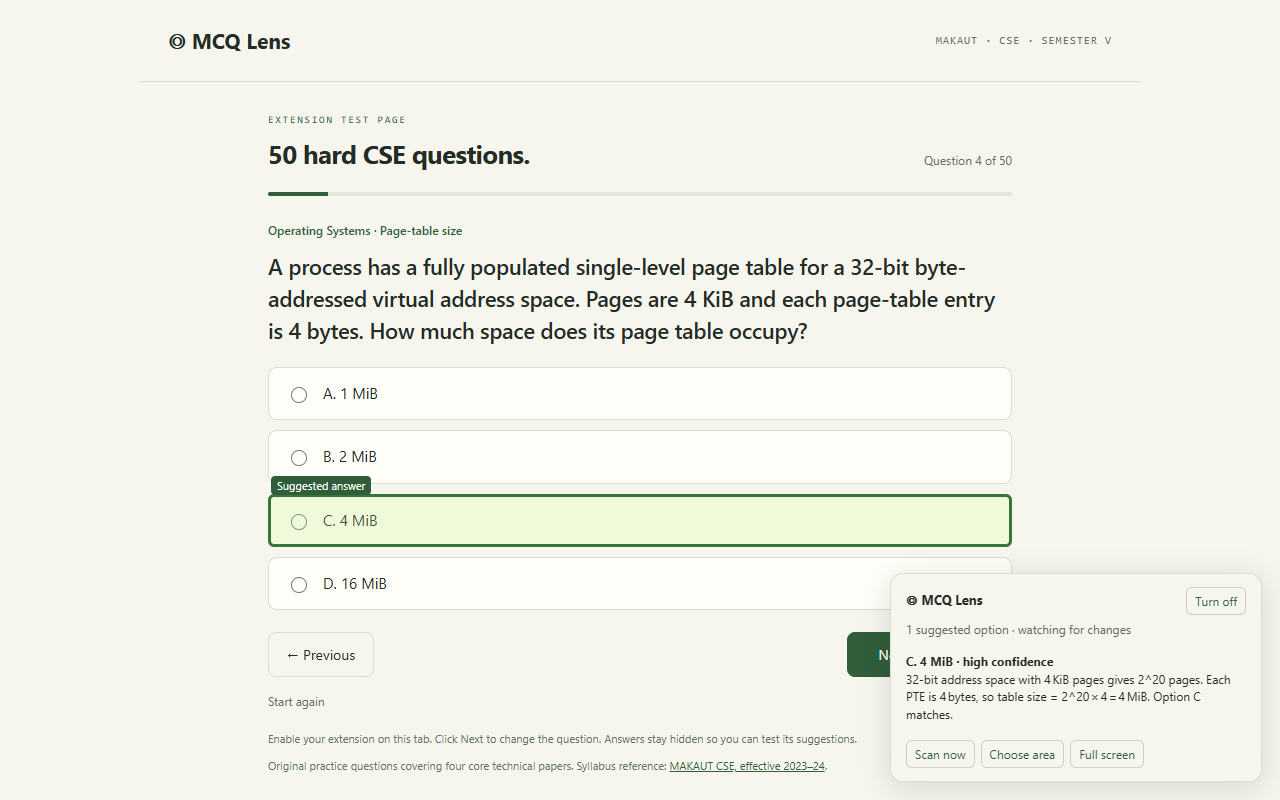
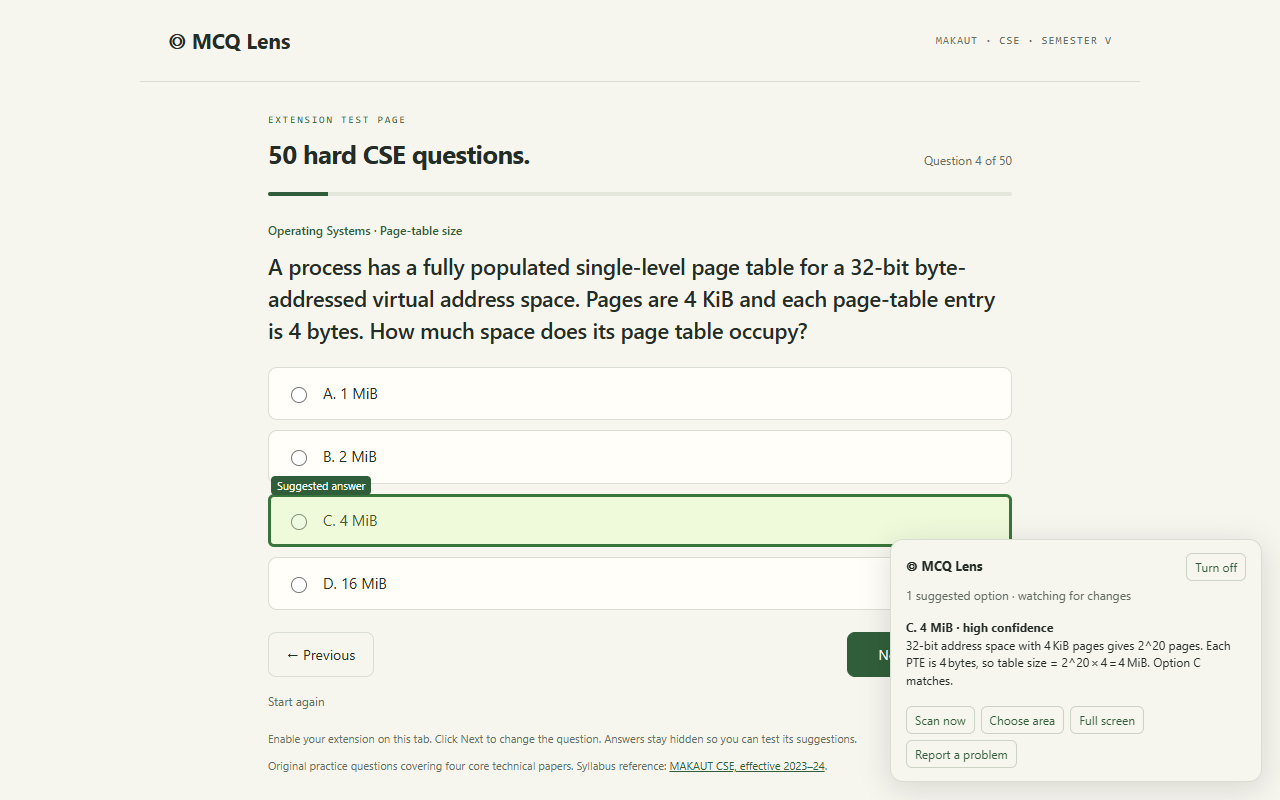
Update Edge listing text and screenshots for 1.3.0

Changed region(s): [[0.6875, 0.6562, 0.9688, 0.9062], [0.7188, 0.9375, 0.875, 0.9688], [0.9375, 0.6875, 0.9688, 0.7188]]

diff --git a/store/LISTING.md b/store/LISTING.md
@@ -17,12 +17,12 @@ Visibility: Public. Markets: all.
 **Permission justification**
 - activeTab: captures the visible part of the tab the user explicitly turned MCQ Lens on (by clicking the toolbar button), to read a question that is shown as an image.
 - scripting: injects the content script into that same tab to read the question and option text and draw the highlight and explanation panel. Nothing is clicked or submitted.
-- storage: keeps the check interval, a random install ID used for the daily free allowance, and any API keys the user chooses to add, in local extension storage.
+- storage: keeps the check interval, the automatic error-report switch, a random install ID used for the daily free allowance, and any API keys the user chooses to add, in local extension storage.
 - Host permission https://mcq-lens.pages.dev/*: the extension's own answer service, which receives the question and returns the suggested answer.
 
 **Remote code:** No, I am not using remote code.
 
-**Data usage:** Website content (the visible question text or a screenshot of the tab/selected area, only while enabled). Authentication information (only API keys the user optionally adds in Settings; sent with their requests, not stored by the service). Certify all three disclosures.
+**Data usage:** Website content (the visible question text or a screenshot of the tab/selected area, only while enabled; the site domain in error reports; a screenshot in a user report only if ticked). Authentication information (only API keys the user optionally adds in Settings; sent with their requests, not stored by the service). Certify all three disclosures.
 
 **Privacy policy URL:** https://mcq-lens.pages.dev/privacy
 
@@ -39,7 +39,7 @@ How it works:
 
 No sign-up or setup: each browser gets 50 free questions a day from the MCQ Lens service. You can add your own free Groq, Google Gemini or Z.ai API key in Settings to use your own provider limits instead.
 
-Important: answers come from AI models (Groq, Google Gemini or Z.ai through the MCQ Lens service) and can be wrong. Check them against your course material, and follow the rules of your school, course or test platform. Question text or screenshots are sent to the MCQ Lens service and these providers only while the extension is enabled; see the privacy policy for details.
+Important: answers come from AI models (Groq, Google Gemini or Z.ai through the MCQ Lens service) and can be wrong. Check them against your course material, and follow the rules of your school, course or test platform. Question text or screenshots are sent to the MCQ Lens service and these providers only while the extension is enabled; see the privacy policy for details. If something goes wrong, MCQ Lens sends a short error report (never question text or page content) so it can be fixed; you can switch this off in Settings or send your own report with "Report a problem".
 
 **Search terms:** MCQ, multiple choice, quiz helper, study, answer highlight, practice questions, exam prep
 
@@ -52,4 +52,5 @@ No account or login is needed. Test page with practice questions: https://mcq-le
 3. Within a few seconds the suggested option is outlined in green and the panel (bottom right) shows the explanation.
 4. Click "Next question" on the page: the highlight clears and the new question is answered automatically.
 5. Settings (toolbar popup → "Settings & own keys") shows the optional API-key fields; they are not needed for testing.
+6. "Report a problem" in the page panel sends a bug report (a note, and a screenshot of the question area only if ticked). Automatic error reports contain no question text and can be switched off in Settings.
 The answer service at https://mcq-lens.pages.dev is live. Each install gets 50 free questions per day.
